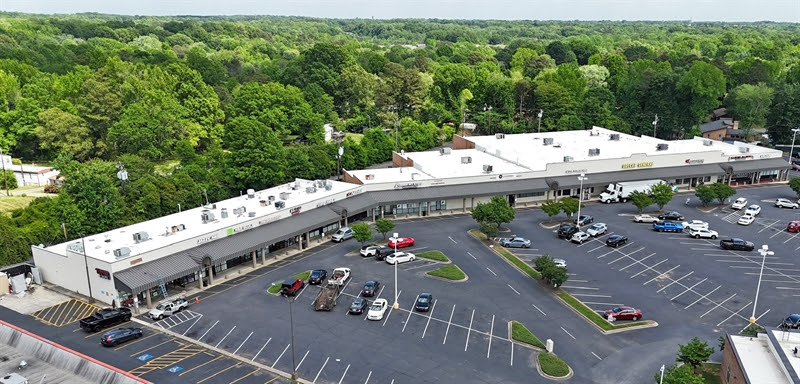
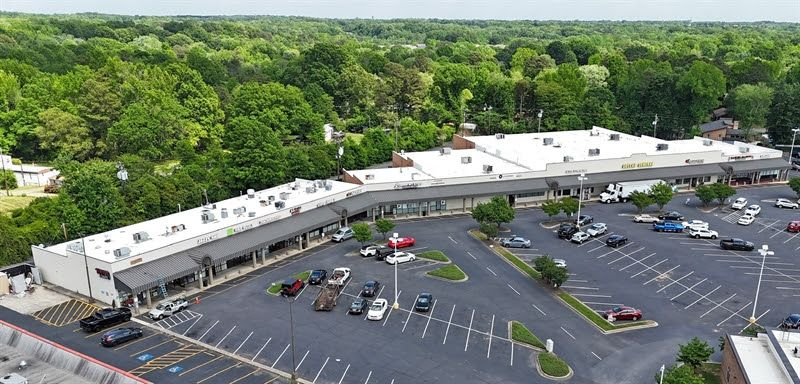
Optimize images and HTML for performance (13MB → <1MB payload)
Compress all portfolio images to ~50-150KB (from 500KB-4.5MB each),
convert Monroe Road before/after PNGs to compressed JPGs, add lazy
loading and width/height attributes to all images, convert portfolio
cards from background-image CSS to img tags. Remove unused assets
(hero-background.jpg, logo.png). Update copyright to 2026.

Addresses Vercel Speed Insights score drop from 90 to 55 caused by
13MB page weight producing 7-9s FCP/LCP for real users.

diff --git a/index.html b/index.html
@@ -151,7 +151,7 @@
                 <!-- Lawyer's Square -->
                 <div class="bg-white rounded-xl overflow-hidden shadow-lg hover:shadow-2xl transition-shadow duration-300">
                     <div class="h-80 bg-gray-900 relative group flex items-center">
-                        <img src="assets/images/portfolio/lawyers-square.jpg" alt="Lawyer's Square" class="w-full h-auto object-contain">
+                        <img src="assets/images/portfolio/lawyers-square.jpg" alt="Lawyer's Square" loading="lazy" width="800" height="600" class="w-full h-auto object-contain">
                         <div class="absolute inset-0 bg-gradient-to-t from-black/70 to-transparent opacity-0 group-hover:opacity-100 transition-opacity duration-300 flex items-end">
                             <div class="p-6 text-white">
                                 <h4 class="text-xl font-semibold">Lawyer's Square</h4>
@@ -170,7 +170,8 @@
 
                 <!-- Derita Plaza -->
                 <div class="bg-white rounded-xl overflow-hidden shadow-lg hover:shadow-2xl transition-shadow duration-300">
-                    <div class="h-80 bg-cover bg-center relative group" style="background-image: url('assets/images/portfolio/derita-plaza.jpg');">
+                    <div class="h-80 bg-gray-900 relative group overflow-hidden">
+                        <img src="assets/images/portfolio/derita-plaza.jpg" alt="Derita Plaza" loading="lazy" width="800" height="600" class="w-full h-full object-cover">
                         <div class="absolute inset-0 bg-gradient-to-t from-black/70 to-transparent opacity-0 group-hover:opacity-100 transition-opacity duration-300 flex items-end">
                             <div class="p-6 text-white">
                                 <h4 class="text-xl font-semibold">Derita Plaza</h4>
@@ -189,7 +190,8 @@
                 
                 <!-- 2710 Gervais -->
                 <div class="bg-white rounded-xl overflow-hidden shadow-lg hover:shadow-2xl transition-shadow duration-300">
-                    <div class="h-80 bg-cover bg-center relative group" style="background-image: url('assets/images/portfolio/2710-gervais.jpg');">
+                    <div class="h-80 bg-gray-900 relative group overflow-hidden">
+                        <img src="assets/images/portfolio/2710-gervais.jpg" alt="2710 Gervais" loading="lazy" width="800" height="600" class="w-full h-full object-cover">
                         <div class="absolute inset-0 bg-gradient-to-t from-black/70 to-transparent opacity-0 group-hover:opacity-100 transition-opacity duration-300 flex items-end">
                             <div class="p-6 text-white">
                                 <h4 class="text-xl font-semibold">2710 Gervais</h4>
@@ -208,7 +210,8 @@
                 
                 <!-- Monroe Road -->
                 <div class="bg-white rounded-xl overflow-hidden shadow-lg hover:shadow-2xl transition-shadow duration-300">
-                    <div class="h-80 bg-cover bg-center relative group" style="background-image: url('assets/images/portfolio/monroe-road.jpg');">
+                    <div class="h-80 bg-gray-900 relative group overflow-hidden">
+                        <img src="assets/images/portfolio/monroe-road.jpg" alt="Monroe Road" loading="lazy" width="800" height="600" class="w-full h-full object-cover">
                         <div class="absolute inset-0 bg-gradient-to-t from-black/70 to-transparent opacity-0 group-hover:opacity-100 transition-opacity duration-300 flex items-end">
                             <div class="p-6 text-white">
                                 <h4 class="text-xl font-semibold">Monroe Road</h4>
@@ -227,7 +230,8 @@
                 
                 <!-- NoDa Tryon Land -->
                 <div class="bg-white rounded-xl overflow-hidden shadow-lg hover:shadow-2xl transition-shadow duration-300">
-                    <div class="h-80 bg-cover bg-center relative group" style="background-image: url('assets/images/portfolio/noda-tryon-land.jpg');">
+                    <div class="h-80 bg-gray-900 relative group overflow-hidden">
+                        <img src="assets/images/portfolio/noda-tryon-land.jpg" alt="NoDa Tryon Land" loading="lazy" width="800" height="600" class="w-full h-full object-cover">
                         <div class="absolute inset-0 bg-gradient-to-t from-black/70 to-transparent opacity-0 group-hover:opacity-100 transition-opacity duration-300 flex items-end">
                             <div class="p-6 text-white">
                                 <h4 class="text-xl font-semibold">NoDa Tryon Land</h4>
@@ -246,7 +250,8 @@
                 
                 <!-- City Green -->
                 <div class="bg-white rounded-xl overflow-hidden shadow-lg hover:shadow-2xl transition-shadow duration-300">
-                    <div class="h-80 bg-cover bg-center relative group" style="background-image: url('assets/images/portfolio/city-green.jpg');">
+                    <div class="h-80 bg-gray-900 relative group overflow-hidden">
+                        <img src="assets/images/portfolio/city-green.jpg" alt="City Green" loading="lazy" width="800" height="600" class="w-full h-full object-cover">
                         <div class="absolute inset-0 bg-gradient-to-t from-black/70 to-transparent opacity-0 group-hover:opacity-100 transition-opacity duration-300 flex items-end">
                             <div class="p-6 text-white">
                                 <h4 class="text-xl font-semibold">City Green</h4>
@@ -265,7 +270,8 @@
                 
                 <!-- 2422 Sugar Creek -->
                 <div class="bg-white rounded-xl overflow-hidden shadow-lg hover:shadow-2xl transition-shadow duration-300">
-                    <div class="h-80 bg-cover bg-center relative group" style="background-image: url('assets/images/portfolio/2422-sugar-creek.jpg');">
+                    <div class="h-80 bg-gray-900 relative group overflow-hidden">
+                        <img src="assets/images/portfolio/2422-sugar-creek.jpg" alt="2422 Sugar Creek" loading="lazy" width="800" height="600" class="w-full h-full object-cover">
                         <div class="absolute inset-0 bg-gradient-to-t from-black/70 to-transparent opacity-0 group-hover:opacity-100 transition-opacity duration-300 flex items-end">
                             <div class="p-6 text-white">
                                 <h4 class="text-xl font-semibold">2422 Sugar Creek</h4>
@@ -297,7 +303,7 @@
             <div class="max-w-md mx-auto">
                 <div class="text-center">
                     <div class="relative inline-block mb-6">
-                        <img src="assets/images/team/george-headshot.jpg" alt="George R. Kornegay IV" 
+                        <img src="assets/images/team/george-headshot.jpg" alt="George R. Kornegay IV" loading="lazy" width="256" height="256"
                              class="w-64 h-64 rounded-full object-cover shadow-xl">
                         <div class="absolute inset-0 rounded-full bg-gradient-to-t from-black/50 to-transparent opacity-0 hover:opacity-100 transition-opacity duration-300 flex items-end justify-center pb-8">
                             <a href="https://www.linkedin.com/in/georgekornegay/" target="_blank" 
@@ -432,7 +438,7 @@
 
             <!-- Bottom Bar -->
             <div class="border-t border-gray-800 pt-6 flex flex-col md:flex-row justify-between items-center gap-4">
-                <p class="text-gray-400 text-sm">© 2025 Idlewood Capital. All rights reserved.</p>
+                <p class="text-gray-400 text-sm">© 2026 Idlewood Capital. All rights reserved.</p>
                 <div class="flex gap-6 text-sm">
                     <a href="#" class="text-gray-400 hover:text-gold-500 transition-colors">Privacy Policy</a>
                     <a href="#" class="text-gray-400 hover:text-gold-500 transition-colors">Terms of Service</a>

diff --git a/investor-updates/monroe-road/q3-2025-update.html b/investor-updates/monroe-road/q3-2025-update.html
@@ -701,11 +701,11 @@
             <div class="before-after-container">
                 <div class="image-grid">
                     <div class="image-item">
-                        <img src="../../assets/images/monroe-road-before-2021.png" alt="Monroe Road Property Before Renovation - 2021">
+                        <img src="../../assets/images/monroe-road-before-2021.jpg" alt="Monroe Road Property Before Renovation - 2021" loading="lazy" width="1200" height="800">
                         <div class="image-caption">Before - 2021 Acquisition</div>
                     </div>
                     <div class="image-item">
-                        <img src="../../assets/images/monroe-road-after-2025.png" alt="Monroe Road Property After Renovation - 2025">
+                        <img src="../../assets/images/monroe-road-after-2025.jpg" alt="Monroe Road Property After Renovation - 2025" loading="lazy" width="1200" height="800">
                         <div class="image-caption">After - 2025 Phase 2 Completion</div>
                     </div>
                 </div>

diff --git a/investor-portal.html b/investor-portal.html
@@ -223,7 +223,7 @@
                         <div class="text-xs font-semibold tracking-wider text-gold-500">CAPITAL</div>
                     </div>
                 </div>
-                <p class="text-gray-400 text-sm">© 2025 Idlewood Capital. All rights reserved.</p>
+                <p class="text-gray-400 text-sm">© 2026 Idlewood Capital. All rights reserved.</p>
             </div>
         </div>
     </footer>
